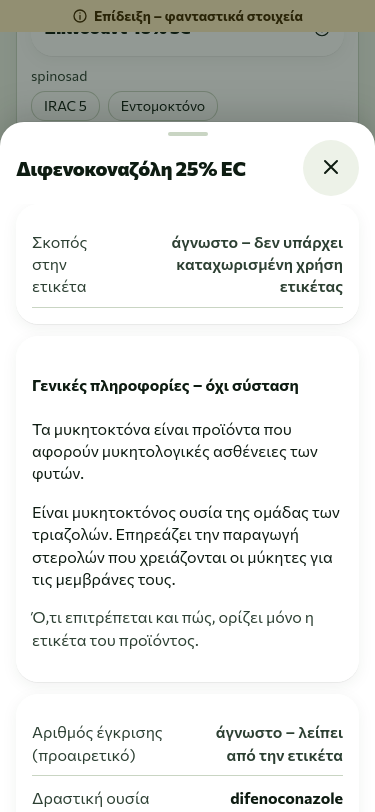
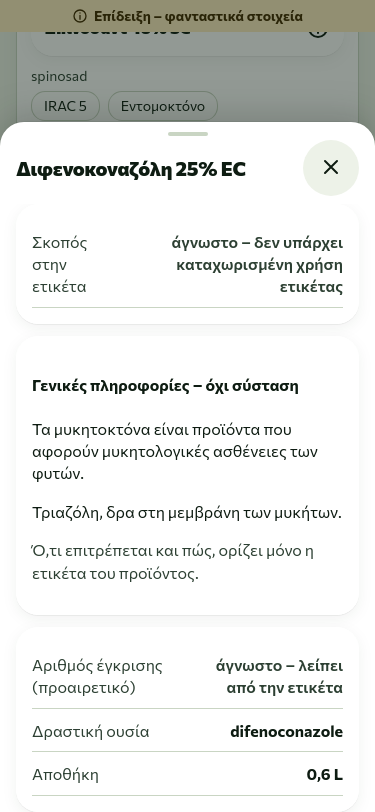
Fetch optional product explanations only when a product opens

diff --git a/app/src/ui/ProductSheet.tsx b/app/src/ui/ProductSheet.tsx
@@ -1,3 +1,4 @@
+import { useEffect, useState } from 'preact/hooks';
 import type { Row } from '../db/schema';
 import { formatDateTime, lang, t } from '../i18n';
 import { formatQty } from '../i18n/format';
@@ -10,7 +11,7 @@ import hi from '../content/product-source/hi.json';
 import tr from '../content/product-source/tr.json';
 import { productKnowledge } from '../content/products';
 import { Card, Chip, DetailSheet, ListRow, SheetFact } from './ds';
-import type { I18nKey } from '../i18n';
+import type { I18nKey, Lang } from '../i18n';
 import { registerSheet, type SheetProps } from './sheets';
 import { nameOf } from './screens';
 import { useRows } from './useRows';
@@ -37,7 +38,19 @@ export function ProductSheet({ product, onClose }: { product: Row; onClose: () =
     ? [formatQty(balance), unit].join('\u00a0')
     : undefined;
   const type = text(product.type);
-  const knowledge = productKnowledge(product.active, type, lang.value);
+  const language = lang.value;
+  const active = text(product.active);
+  const key = JSON.stringify([active, type, language]);
+  const [translation, setTranslation] = useState<{ key: string; value?: string }>();
+  useEffect(() => {
+    if (!active || !type) return;
+    let current = true;
+    void productKnowledge(active, type, language).then((value) => {
+      if (current) setTranslation({ key, value });
+    }).catch(() => {});
+    return () => { current = false; };
+  }, [key]);
+  const knowledge = translation?.key === key ? translation.value : undefined;
   const kind = type !== undefined && Object.hasOwn(GENERAL, type) ? GENERAL[type] : undefined;
   const last = effectiveSprays(ownRows(sprays.rows)).filter((row) => row.product_id === product.id)
     .sort((a, b) => (text(b.sprayed_at) ?? '').localeCompare(text(a.sprayed_at) ?? ''));

diff --git a/app/src/content/products/index.ts b/app/src/content/products/index.ts
@@ -1,14 +1,22 @@
-import el from './el.json';
-import en from './en.json';
-import hi from './hi.json';
-import tr from './tr.json';
+import type { Lang } from '../../i18n';
 
-const library: Readonly<Record<'el' | 'en' | 'hi' | 'tr', Readonly<Record<string, readonly string[]>>>> = { el, en, hi, tr };
+type ProductDictionary = Readonly<Record<string, readonly string[]>>;
+const locales = {
+  el: () => import('./el.json'),
+  en: () => import('./en.json'),
+  hi: () => import('./hi.json'),
+  tr: () => import('./tr.json'),
+};
 
-/** Match only the recorded substance and its recorded class. Product labels are separate. */
-export function productKnowledge(active: unknown, type: unknown, language: string): string | undefined {
-  if (typeof active !== 'string' || (language !== 'el' && language !== 'en' && language !== 'hi' && language !== 'tr')) return undefined;
+/** Match the recorded substance and its recorded class. Product labels are separate. */
+function lookup(dictionary: ProductDictionary, active: unknown, type: unknown): string | undefined {
+  if (typeof active !== 'string') return undefined;
   const key = active.toLowerCase().replace(/[^a-z0-9]+/g, '-').replace(/^-|-$/g, '');
-  const entry = library[language][key];
+  const entry = dictionary[key];
   return entry?.[0] === type ? entry?.[1] : undefined;
+}
+
+
+export async function productKnowledge(active: unknown, type: unknown, language: Lang): Promise<string | undefined> {
+  return lookup((await locales[language]()).default, active, type);
 }

diff --git a/app/tests/unit/product-knowledge.test.ts b/app/tests/unit/product-knowledge.test.ts
@@ -5,18 +5,19 @@ import en from '../../src/content/products/en.json';
 import { productKnowledge } from '../../src/content/products';
 
 describe('product knowledge', () => {
-  it('covers all prototype actives in all four locales', () => {
+  it('covers all prototype actives in all four locales', async () => {
     expect(Object.keys(el)).toEqual(Object.keys(en));
     for (const product of demo.products) {
-      for (const locale of ['el', 'en', 'hi', 'tr']) {
-        expect(productKnowledge(product.active, product.type, locale), product.active).toBeTruthy();
+      for (const locale of ['el', 'en', 'hi', 'tr'] as const) {
+        expect(await productKnowledge(product.active, product.type, locale), product.active).toBeTruthy();
       }
     }
   });
 
-  it('requires the recorded identity and class', () => {
-    expect(productKnowledge('unlisted substance', 'fungicide', 'el')).toBeUndefined();
-    expect(productKnowledge('difenoconazole', 'fertiliser', 'el')).toBeUndefined();
-    expect(productKnowledge(null, 'fungicide', 'en')).toBeUndefined();
+  it('requires the recorded identity and class', async () => {
+    expect(await productKnowledge('unlisted substance', 'fungicide', 'el')).toBeUndefined();
+    expect(await productKnowledge('difenoconazole', 'fertiliser', 'el')).toBeUndefined();
+    expect(await productKnowledge(null, 'fungicide', 'en')).toBeUndefined();
+    expect(await productKnowledge('missing', undefined, 'el')).toBeUndefined();
   });
 });

diff --git a/app/tests/e2e/s2-product-source.spec.ts b/app/tests/e2e/s2-product-source.spec.ts
@@ -15,7 +15,8 @@ test('the Demo stock product opens recorded label and balance facts', async ({ p
 
   const sheet = page.getByTestId('product-source');
   await expect(sheet.getByRole('dialog')).toBeVisible();
-  await expect(sheet.getByTestId('product-knowledge')).toContainText('ανόργανη ένωση του χαλκού');
+  await expect(sheet.getByTestId('product-knowledge')).toContainText(/ανόργανη ένωση του χαλκού/i);
+  await page.context().setOffline(true);
   await expect(sheet).toContainText('άγνωστο – λείπει από την ετικέτα');
   await expect(sheet).toContainText(/4,5\s*kg/);
   await expect(sheet).toContainText('Σπανάκι');
